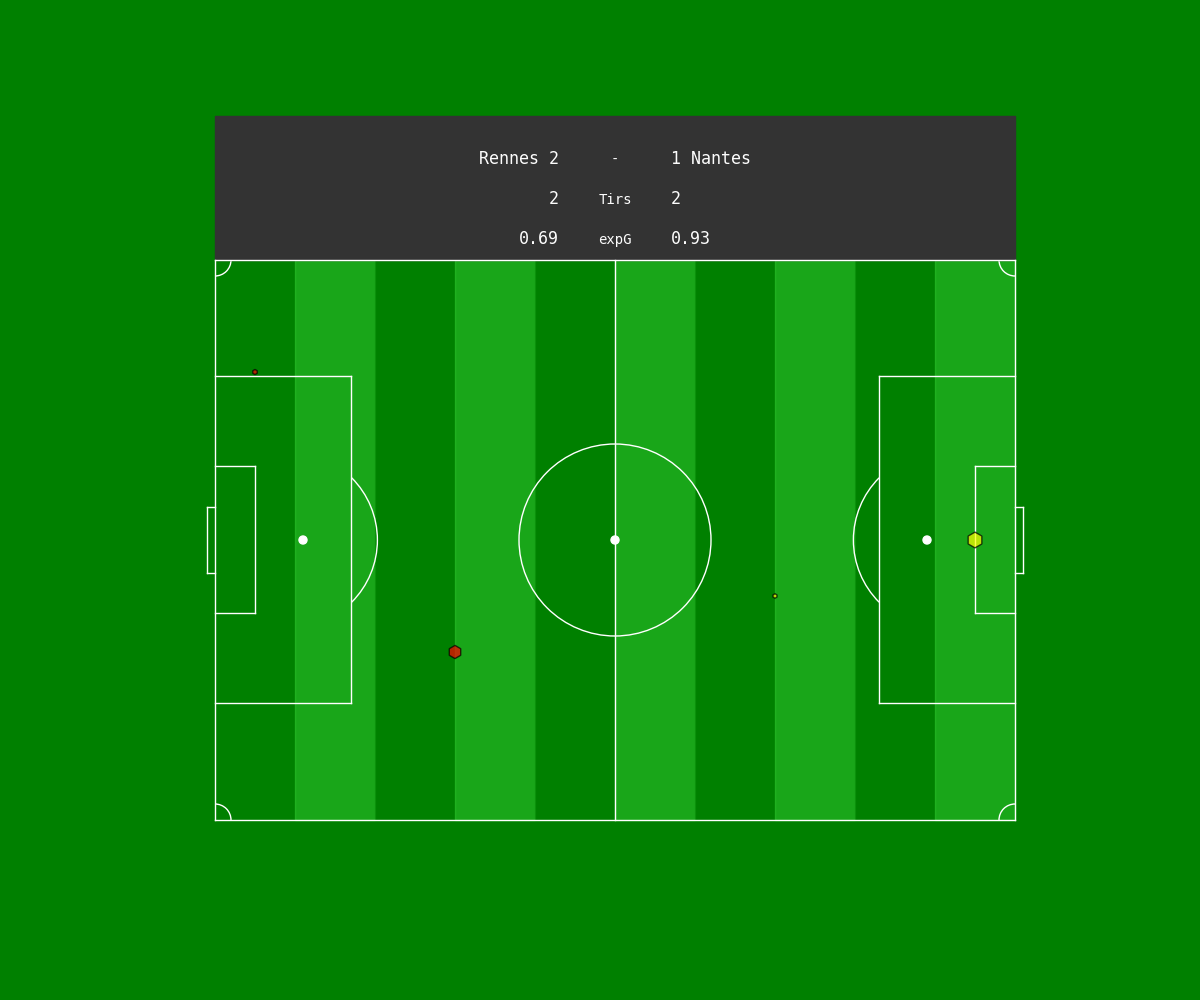
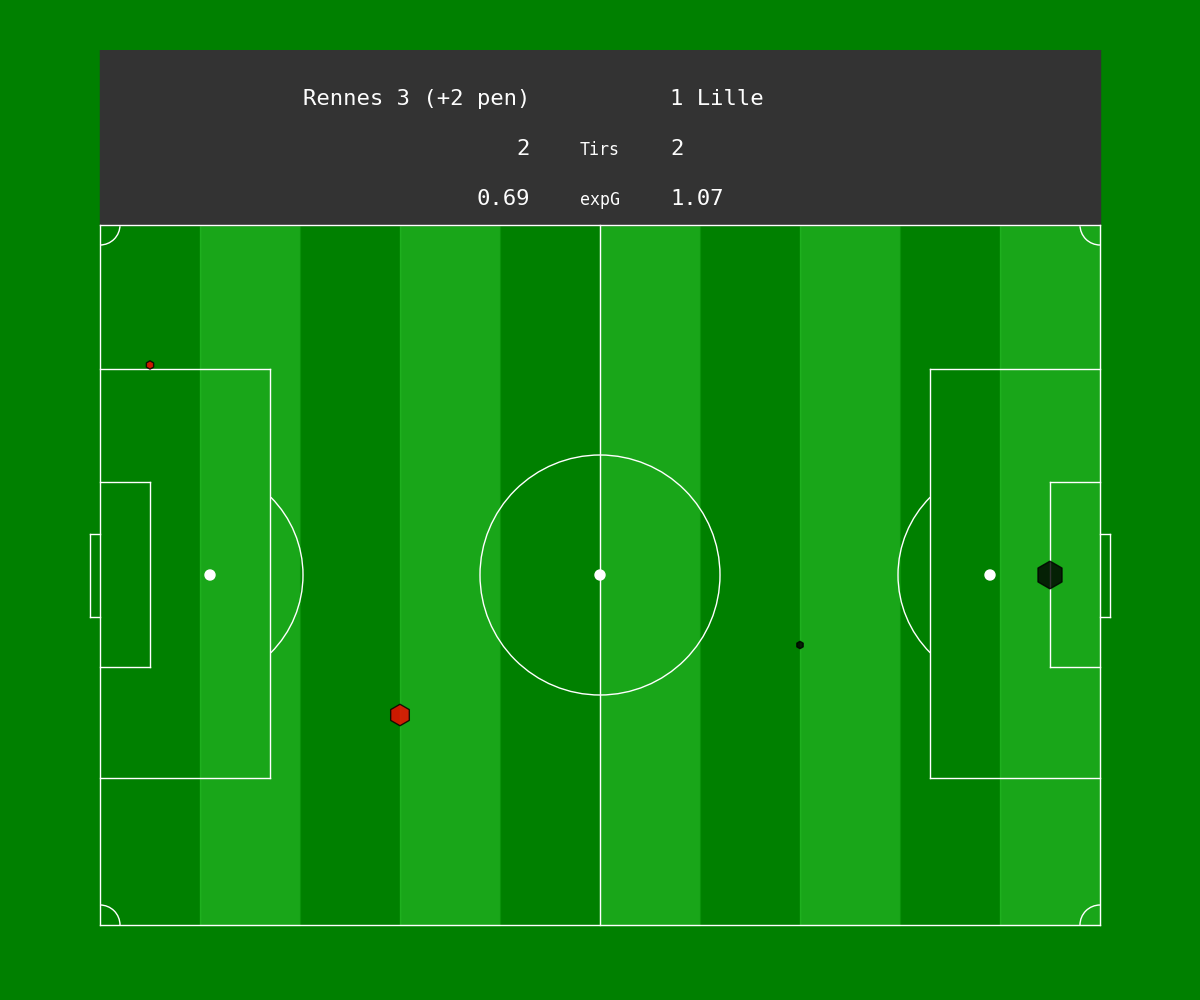
sf

diff --git a/script/soccerfield/soccerfield.py b/script/soccerfield/soccerfield.py
@@ -26,7 +26,11 @@ class Soccerfield:
     """
     Creates the soccerfield.
     """
-    def __init__(self, home_shots, away_shots):
+    def __init__(self, home_shots, away_shots,
+                       home_team, away_team,
+                       home_np_goals, away_np_goals,
+                       home_p_goals, away_p_goals,
+                       home_color, away_color):
         fig, ax = plt.subplots(figsize=(12, 10))
 
         # Conserve scaling
@@ -39,6 +43,7 @@ class Soccerfield:
         # No axes
         plt.axis('off')
         ax.set_ylim(ymin=0, ymax=100)
+        plt.subplots_adjust(left=0, bottom=0, top=0.95, right=1)
 
         fieldLinesColor = 'white'
         fieldLinesWitdh = 1
@@ -137,21 +142,30 @@ class Soccerfield:
                 color='#333333'
             )
         )
+
+        font_size = 16
+        font_small_size = 12
         # Score
-        ax.text(self.fieldStartX+(self.fieldWidth/2), self.fieldStartY+self.fieldHeight+12, '-', color='white', family='monospace', size='10', horizontalalignment='center')
-        ax.text(self.fieldStartX+(self.fieldWidth/2)-7, self.fieldStartY+self.fieldHeight+12, 'Rennes 2', color='white', family='monospace', horizontalalignment='right')
-        ax.text(self.fieldStartX+(self.fieldWidth/2)+7, self.fieldStartY+self.fieldHeight+12, '1 Nantes', color='white', family='monospace', horizontalalignment='left')
+        home_goals = str(home_np_goals)
+        if(home_p_goals > 0):
+            home_goals = home_goals + ' (+' + str(home_p_goals) + ' pen)'
+        away_goals = str(away_np_goals)
+        if(away_p_goals > 0):
+            away_goals = away_goals + ' (+' + str(away_p_goals) + ' pen)'
+        ax.text(self.fieldStartX+(self.fieldWidth/2), self.fieldStartY+self.fieldHeight+12, ' ', color='white', family='monospace', size=font_small_size, horizontalalignment='center')
+        ax.text(self.fieldStartX+(self.fieldWidth/2)-7, self.fieldStartY+self.fieldHeight+12, home_team+' '+home_goals, color='white', family='monospace', size=font_size, horizontalalignment='right')
+        ax.text(self.fieldStartX+(self.fieldWidth/2)+7, self.fieldStartY+self.fieldHeight+12, away_goals+' '+away_team, color='white', family='monospace', size=font_size, horizontalalignment='left')
         # Shots
-        ax.text(self.fieldStartX+(self.fieldWidth/2), self.fieldStartY+self.fieldHeight+7, 'Tirs', color='white', family='monospace', size='10', horizontalalignment='center')
-        ax.text(self.fieldStartX+(self.fieldWidth/2)-7, self.fieldStartY+self.fieldHeight+7, str(home_shots[:, 2].size), color='white', family='monospace', horizontalalignment='right')
-        ax.text(self.fieldStartX+(self.fieldWidth/2)+7, self.fieldStartY+self.fieldHeight+7, str(away_shots[:, 2].size), color='white', family='monospace', horizontalalignment='left')
+        ax.text(self.fieldStartX+(self.fieldWidth/2), self.fieldStartY+self.fieldHeight+7, 'Tirs', color='white', family='monospace', size=font_small_size, horizontalalignment='center')
+        ax.text(self.fieldStartX+(self.fieldWidth/2)-7, self.fieldStartY+self.fieldHeight+7, str(home_shots[:, 2].size), color='white', family='monospace', size=font_size, horizontalalignment='right')
+        ax.text(self.fieldStartX+(self.fieldWidth/2)+7, self.fieldStartY+self.fieldHeight+7, str(away_shots[:, 2].size), color='white', family='monospace', size=font_size, horizontalalignment='left')
         # ExpG
-        ax.text(self.fieldStartX+(self.fieldWidth/2), self.fieldStartY+self.fieldHeight+2, 'expG', color='white', family='monospace', size='10', horizontalalignment='center')
-        ax.text(self.fieldStartX+(self.fieldWidth/2)-7, self.fieldStartY+self.fieldHeight+2, str(np.sum(home_shots[:, 2])), color='white', family='monospace', horizontalalignment='right')
-        ax.text(self.fieldStartX+(self.fieldWidth/2)+7, self.fieldStartY+self.fieldHeight+2, str(np.sum(away_shots[:, 2])), color='white', family='monospace', horizontalalignment='left')
+        ax.text(self.fieldStartX+(self.fieldWidth/2), self.fieldStartY+self.fieldHeight+2, 'expG', color='white', family='monospace', size=font_small_size, horizontalalignment='center')
+        ax.text(self.fieldStartX+(self.fieldWidth/2)-7, self.fieldStartY+self.fieldHeight+2, str(np.sum(home_shots[:, 2])), color='white', family='monospace', size=font_size, horizontalalignment='right')
+        ax.text(self.fieldStartX+(self.fieldWidth/2)+7, self.fieldStartY+self.fieldHeight+2, str(np.sum(away_shots[:, 2])), color='white', family='monospace', size=font_size, horizontalalignment='left')
         # Points
-        plt.scatter(self.fieldWidth-self.scaleX(home_shots[:, 0])+self.fieldStartX, self.scaleY(home_shots[:, 1])+self.fieldStartY, s=home_shots[:, 2]*150, c='red', alpha=0.7, marker='h', zorder=2)
-        plt.scatter(self.scaleX(away_shots[:, 0])+self.fieldStartX,                 self.scaleY(away_shots[:, 1])+self.fieldStartY, s=away_shots[:, 2]*150, c='yellow', alpha=0.7, marker='h', zorder=2)
+        plt.scatter(self.fieldWidth-self.scaleX(home_shots[:, 0])+self.fieldStartX, self.scaleY(home_shots[:, 1])+self.fieldStartY, s=home_shots[:, 2]*400, c=home_color, alpha=0.8, marker='h', zorder=2)
+        plt.scatter(self.scaleX(away_shots[:, 0])+self.fieldStartX,                 self.scaleY(away_shots[:, 1])+self.fieldStartY, s=away_shots[:, 2]*400, c=away_color, alpha=0.8, marker='h', zorder=2)
 
     """
     Scale X point.
@@ -176,7 +190,7 @@ class Soccerfield:
 
 # Test
 
-home_shots = np.array([[70, 30, 0.6], [95, 80, 0.09]])
-away_shots = np.array([[70, 40, 0.07], [95, 50, 0.86]])
-sf = Soccerfield(home_shots, away_shots)
+home_shots = np.array([[70, 30, 0.6, 1], [95, 80, 0.09, 0]])
+away_shots = np.array([[70, 40, 0.07, 0], [95, 50, 1, 1]])
+sf = Soccerfield(home_shots, away_shots, 'Rennes', 'Lille', 3, 1, 2, 0, 'red', 'black')
 sf.show()
